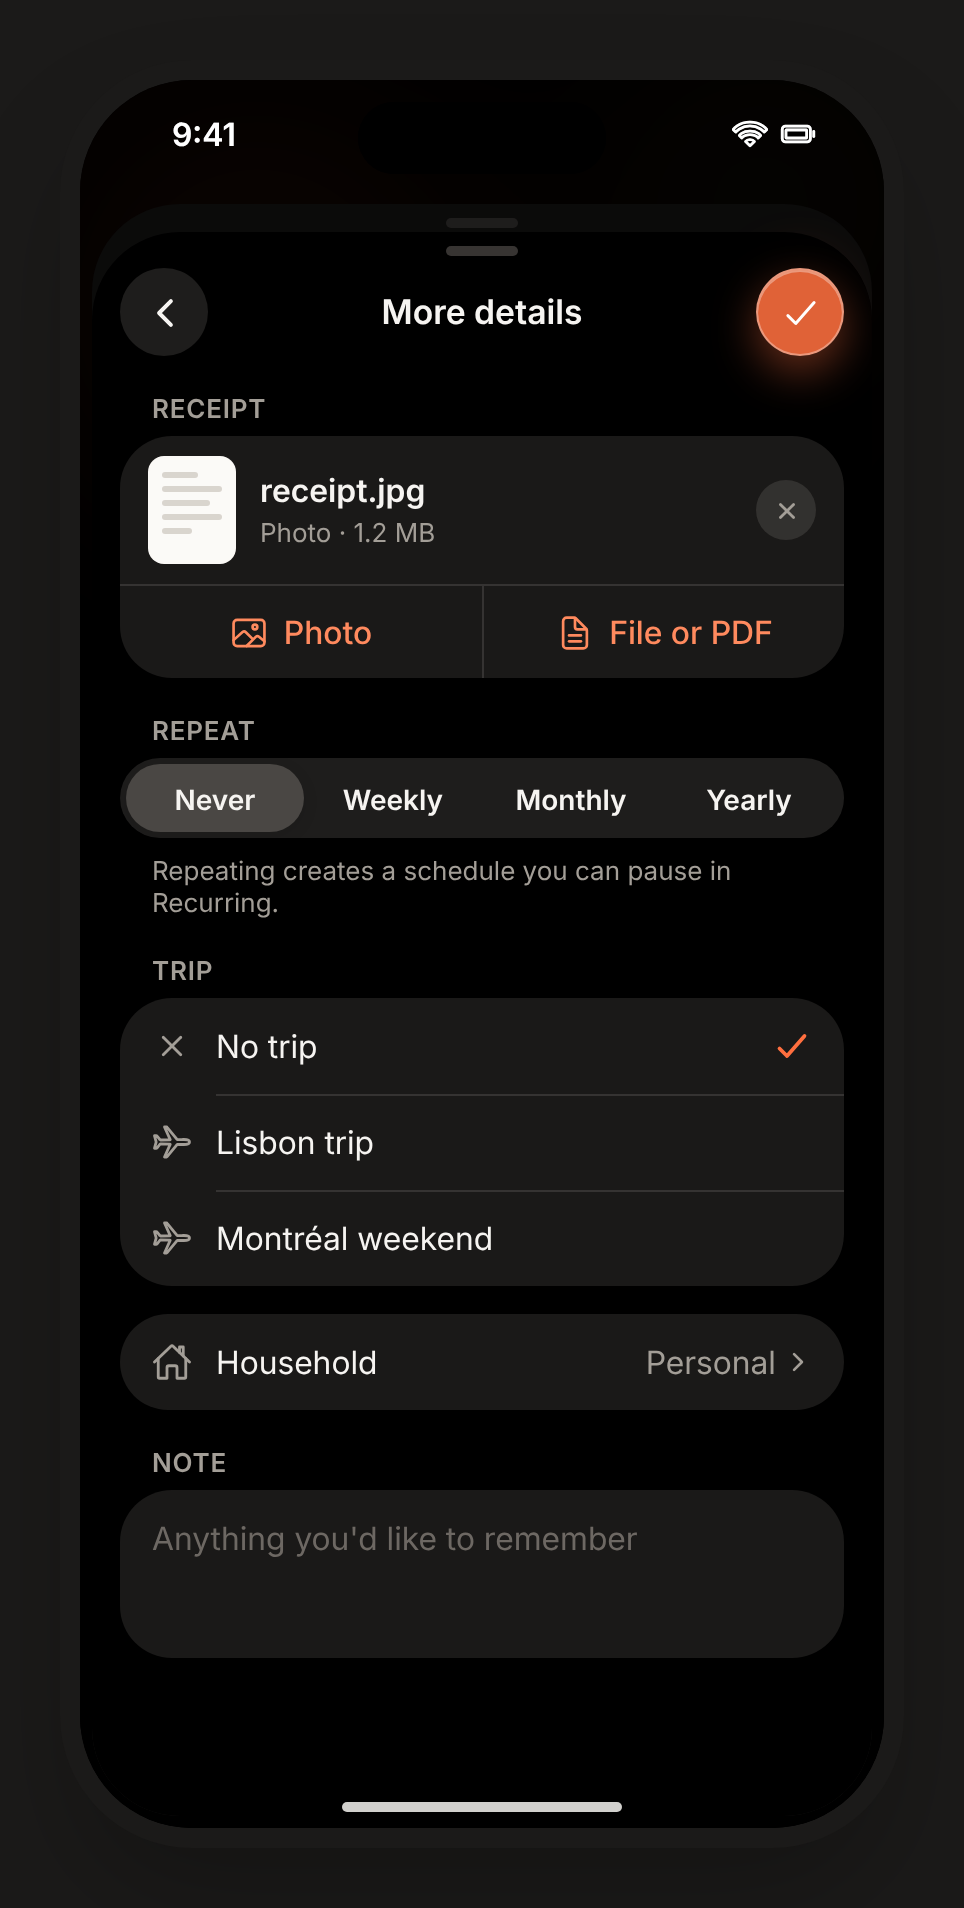
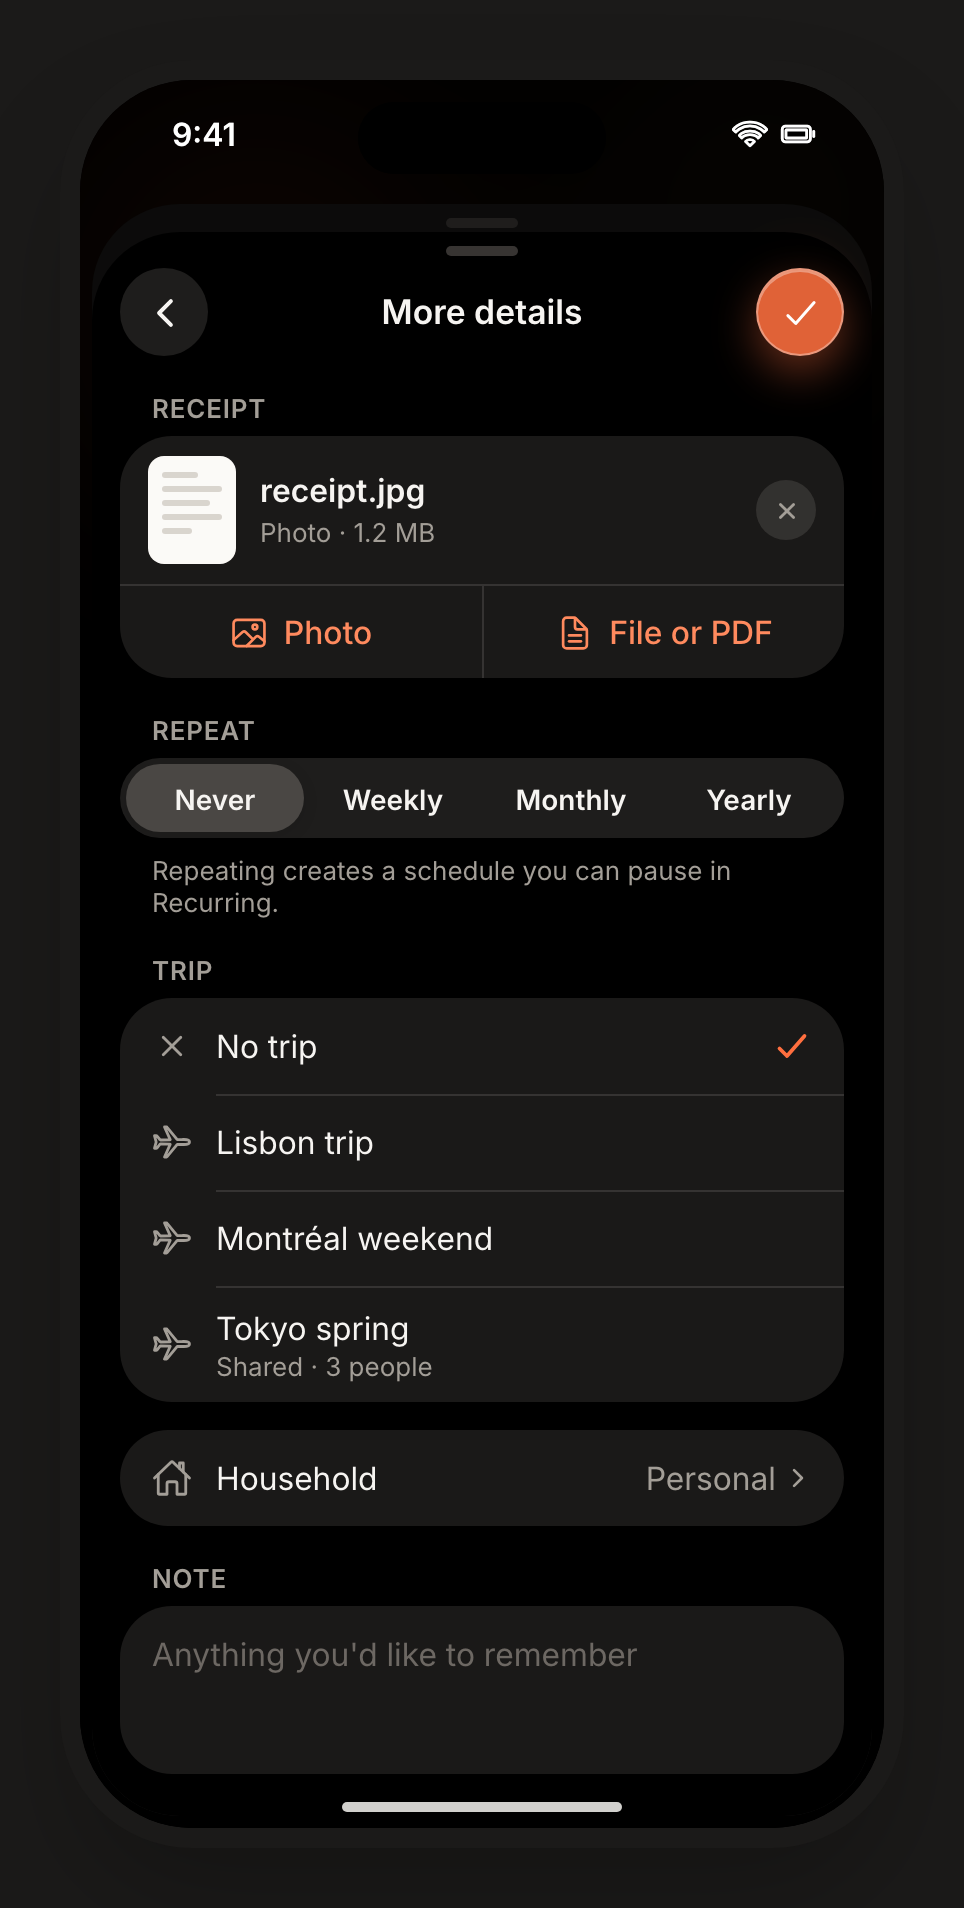
feat: add shared trips to iphone-entry-extras and close the capture gaps
The card now lists a shared trip below the personal trips with
"Shared · N people", as both apps do; the web's phone-width trip list
gains the shared trips too. On iOS the Activity list no longer leaves a
gap for its spoken-only rows, the filters and household picker sheets
are solid, the search waits for the server, the delete sheet keeps its
buttons' identifiers, and redesign.md drops the native notes these replace.

Changed region(s): [[0.1245, 0.6494, 0.9025, 0.9277]]

diff --git a/apps/web/src/features/entries/EntryForm.tsx b/apps/web/src/features/entries/EntryForm.tsx
@@ -540,6 +540,20 @@ function EntryForm({
                 {draft.tripId === trip.id ? <Icon name="checkmark" size={18} weight={48} /> : null}
               </label>
             ))}
+            {/* The shared trips a new expense can go to, below your own (`iphone-entry-extras`): picking one
+                moves what was typed to that trip's shared form, as the Household row does. */}
+            {householdProps
+              ? sharedTripsOf(householdProps.scope.households).map((trip) => (
+                  <label key={trip.id} className="entry-trip entry-trip--shared">
+                    <input type="radio" name="entry-trip" value={trip.id} checked={false} onChange={() => { householdProps.scope.onChoose({ householdId: trip.id }, householdProps.seed()); }} />
+                    <Icon name="airplane" size={18} />
+                    <span className="entry-trip__name">
+                      {trip.name}
+                      <span className="entry-trip__sub">Shared · {trip.memberCount} {trip.memberCount === 1 ? "person" : "people"}</span>
+                    </span>
+                  </label>
+                ))
+              : null}
           </div>
           {errorText("trip")}
         </fieldset>
@@ -794,6 +808,13 @@ function seededDraft(ledger: Ledger, seed: EntrySeed, kind: Kind = "expense"): E
     receipt: kind === "expense" ? seed.receipt : null,
     ...(category ? { categoryId: category.id } : {}),
   };
+}
+
+/** The shared trips among `households`, the latest start first (More details › Trip, as on iOS). */
+function sharedTripsOf<T extends { name: string; trip?: { startDate: string } | undefined }>(households: T[]): T[] {
+  return households
+    .filter((household) => household.trip)
+    .sort((a, b) => (b.trip?.startDate ?? "").localeCompare(a.trip?.startDate ?? "") || a.name.localeCompare(b.name));
 }
 
 /** What the phone's "Receipt, repeat, trip" row holds, as on iOS: "Receipt · Monthly · Lisbon trip · Note". */

diff --git a/apps/web/tests/households.test.tsx b/apps/web/tests/households.test.tsx
@@ -629,6 +629,31 @@ describe("Add entry with a household", () => {
     expect(household.compareDocumentPosition(note) & Node.DOCUMENT_POSITION_FOLLOWING).toBeTruthy();
   });
 
+  it("lists shared trips below your own trips and moves the expense to the one picked", async () => {
+    seed();
+    const created = server.handle(ALEX, "POST", "/api/households/trips", { name: "Tokyo spring", currency: "CAD", startDate: "2026-11-01", endDate: "2026-11-09" }).body as { household: { id: string } };
+    serve();
+    const user = userEvent.setup();
+    renderApp("/");
+    const form = await openAdd(user);
+    await user.type(within(form).getByLabelText("Amount (CAD)"), "30");
+    await user.type(within(form).getByLabelText("Title"), "Ramen");
+    await user.click(within(form).getByRole("button", { name: /^Receipt, repeat, trip/ }));
+    const trips = within(form).getByRole("group", { name: "Trip" });
+    const shared = await within(trips).findByRole("radio", { name: /Tokyo spring/ });
+    // As on iphone-entry-extras: after the personal trips, with "Shared · N people", never checked.
+    expect(shared.closest("label")).toHaveTextContent("Shared · 1 person");
+    expect(shared).not.toBeChecked();
+    const options = within(trips).getAllByRole("radio");
+    expect(options[options.length - 1]).toBe(shared);
+
+    await user.click(shared);
+    const sharedForm = await screen.findByRole("form", { name: "New expense" });
+    expect(within(sharedForm).getByLabelText("Household")).toHaveValue(created.household.id);
+    expect(within(sharedForm).getByLabelText("Title")).toHaveValue("Ramen");
+    expect(within(sharedForm).getByLabelText("Amount (CAD)")).toHaveValue("30");
+  });
+
   it("sends a new expense to a household from Add entry, keeping what was typed", async () => {
     const id = seed();
     const fetchMock = serve();

diff --git a/apps/ios/Packages/PennyKit/Sources/PennyUI/Activity/ActivityView.swift b/apps/ios/Packages/PennyKit/Sources/PennyUI/Activity/ActivityView.swift
@@ -170,7 +170,9 @@ private struct ActivityList: View {
         let local = cache.result(ledger, filters, today: shell.today, shared: sharedRows)
         let server = Self.showsServer(search, filters: filters) ? search.rows(in: ledger) : nil
         let report = server?.report ?? cache.report
-        let rows = server?.rows ?? local.entries
+        // While the server searches, the list waits for its answer (`activity-searching`) instead of
+        // showing this device's word matches first and replacing them.
+        let rows = Self.waitsForServer(search, filters: filters) ? [] : (server?.rows ?? local.entries)
         let shown = server == nil ? Array(rows.prefix(visibleLimit)) : rows
         let days = ActivityDay.group(shown)
         let currency = ledger.currency.rawValue
@@ -227,6 +229,8 @@ private struct ActivityList: View {
             footer(rows: rows, shown: shown, search: search, server: server != nil)
         }
         .insetGroupedList()
+        // The spoken-only rows (totals, the server results line) are one point tall, not a row's height.
+        .environment(\.defaultMinListRowHeight, 1)
         .overlay { emptyState(rows: rows, filters: filters) }
         .refreshable {
             await shell.workspace.reload()
@@ -241,6 +245,10 @@ private struct ActivityList: View {
         .task(id: filters.period) { await shell.activityShared.refresh(filters.period) }
         .deleteEntryConfirmation($deleting)
         .sharedDeleteConfirmation($deletingShared)
+    }
+
+    static func waitsForServer(_ search: ActivitySearchModel, filters: ActivityFilters) -> Bool {
+        filters.hasQuery && search.source == .server && search.status == .searching
     }
 
     static func showsServer(_ search: ActivitySearchModel, filters: ActivityFilters) -> Bool {

diff --git a/apps/ios/Packages/PennyKit/Sources/PennyDesign/Components/Feedback.swift b/apps/ios/Packages/PennyKit/Sources/PennyDesign/Components/Feedback.swift
@@ -13,13 +13,18 @@ public struct StatusBanner<Action: View>: View {
     private let tone: Tone
     private let title: String
     private let message: String?
+    /// Replaces the tone's icon (the future-date callout's clock, `add-income`).
+    private let symbol: String?
     private let action: Action
     @Environment(\.dynamicTypeSize) private var dynamicTypeSize
 
-    public init(tone: Tone, title: String, message: String? = nil, @ViewBuilder action: () -> Action) {
+    public init(
+        tone: Tone, title: String, message: String? = nil, symbol: String? = nil, @ViewBuilder action: () -> Action
+    ) {
         self.tone = tone
         self.title = title
         self.message = message
+        self.symbol = symbol
         self.action = action()
     }
 
@@ -80,6 +85,7 @@ public struct StatusBanner<Action: View>: View {
     }
 
     private var icon: String {
+        if let symbol { return symbol }
         switch tone {
         case .offline: "icloud.slash"
         case .error: "exclamationmark.circle.fill"
@@ -108,8 +114,8 @@ public struct StatusBanner<Action: View>: View {
 }
 
 extension StatusBanner where Action == EmptyView {
-    public init(tone: Tone, title: String, message: String? = nil) {
-        self.init(tone: tone, title: title, message: message) { EmptyView() }
+    public init(tone: Tone, title: String, message: String? = nil, symbol: String? = nil) {
+        self.init(tone: tone, title: title, message: message, symbol: symbol) { EmptyView() }
     }
 }
 

diff --git a/docs/design/penny-ios/iphone/entry-extras.html b/docs/design/penny-ios/iphone/entry-extras.html
@@ -29,6 +29,9 @@
   .opt + .opt::before { content: ""; position: absolute; top: 0; left: 48px; right: 0; border-top: .5px solid var(--separator); }
   .opt [data-i] { width: 20px; height: 20px; color: var(--label-2); }
   .opt .ck { margin-left: auto; color: var(--tint); --sw: 48px; }
+  .opt.two { height: 58px; }
+  .opt .tt { display: flex; flex-direction: column; gap: 1px; }
+  .opt .tt span { font-size: 13px; color: var(--label-2); }
   .opt .v { margin-left: auto; color: var(--label-2); display: flex; align-items: center; gap: 4px; }
   .note { margin: 0 14px; border-radius: var(--r-card); background: var(--surface); padding: 14px 16px; height: 84px; font-size: 16px; color: var(--label-3); }
 </style></head>
@@ -62,6 +65,7 @@
       <div class="opt"><i data-i="close"></i>No trip<i data-i="checkmark" class="ck"></i></div>
       <div class="opt"><i data-i="airplane"></i>Lisbon trip</div>
       <div class="opt"><i data-i="airplane"></i>Montréal weekend</div>
+      <div class="opt two"><i data-i="airplane"></i><div class="tt">Tokyo spring<span>Shared · 3 people</span></div></div>
     </div>
     <div class="list" style="margin-top:14px">
       <div class="opt"><i data-i="home"></i>Household<span class="v">Personal <i data-i="chevron-forward" class="chev"></i></span></div>

diff --git a/apps/ios/Packages/PennyKit/Sources/PennyAccessibility/AccessibilityID.swift b/apps/ios/Packages/PennyKit/Sources/PennyAccessibility/AccessibilityID.swift
@@ -49,6 +49,8 @@ public enum AccessibilityID {
         public static let entryExtras = "screen.entryExtras"
         /// Add entry's Household: personal, or a household to split with.
         public static let householdPicker = "screen.householdPicker"
+        /// The delete confirmation sheet (`delete-confirm` card, MAZ-255).
+        public static let deleteConfirm = "screen.deleteConfirm"
         // Accounts, categories and schedules (MAZ-74).
         public static let accountForm = "screen.accountForm"
         public static let categoryForm = "screen.categoryForm"
@@ -64,7 +66,7 @@ public enum AccessibilityID {
             home, activity, shared, household, householdExpense, trips, trip, addEntry, settings, appearance, currency,
             appLock, recurring, accounts, categories, lock,
             editEntry, entryDetail, activityFilters, categoryPicker, accountPicker, datePicker, split, entryExtras,
-            householdPicker,
+            householdPicker, deleteConfirm,
             accountForm, categoryForm, schedule, scheduleForm,
             moneyFlow, insights, calendar, categorySpending,
         ]

diff --git a/apps/ios/Packages/PennyKit/Sources/PennyUI/Activity/ActivityFiltersSheet.swift b/apps/ios/Packages/PennyKit/Sources/PennyUI/Activity/ActivityFiltersSheet.swift
@@ -99,6 +99,7 @@ struct ActivityFiltersSheet: View {
                         shell.activityFilters.clearNarrowing()
                         shell.activityFilters.period = .month(shell.month)
                     }
+                    .foregroundStyle(PennyColor.label)
                     .accessibilityIdentifier("filters.clear")
                 }
                 ToolbarItem(placement: .confirmationAction) {
@@ -111,7 +112,9 @@ struct ActivityFiltersSheet: View {
             }
             .pennySolidBars()
         }
-        .presentationDetents([.medium, .large])
+        // Full height on a solid background, as on `iphone-activity-filters`.
+        .presentationDetents([.large])
+        .presentationBackground(PennyColor.background)
         .accessibilityIdentifier("screen.activityFilters")
     }
 

diff --git a/apps/ios/Packages/PennyKit/Sources/PennyUI/Entries/EntryHousehold.swift b/apps/ios/Packages/PennyKit/Sources/PennyUI/Entries/EntryHousehold.swift
@@ -124,6 +124,7 @@ struct EntryHouseholdSheet: View {
                 }
             }
             .insetGroupedList()
+            .contentMargins(.top, 4, for: .scrollContent)
             .background(PennyColor.background)
             .navigationTitle("Household")
             .toolbarTitleDisplayModeInline()
@@ -136,6 +137,7 @@ struct EntryHouseholdSheet: View {
             .pennySolidBars()
         }
         .presentationDetents([.medium, .large])
+        .presentationBackground(PennyColor.background)
         .accessibilityIdentifier("screen.householdPicker")
     }
 

diff --git a/apps/ios/Packages/PennyKit/Sources/PennyUI/Entries/EntryFormSheet.swift b/apps/ios/Packages/PennyKit/Sources/PennyUI/Entries/EntryFormSheet.swift
@@ -274,7 +274,7 @@ private struct EntryForm: View {
     private func futureDateNote(_ draft: EntryDraft) -> some View {
         if let date = CalendarDate.ledgerDate(draft.date), date > shell.today {
             let note = EntryText.futureDate(draft.kind, date: date, today: shell.today)
-            StatusBanner(tone: .info, title: note.title, message: note.message)
+            StatusBanner(tone: .info, title: note.title, message: note.message, symbol: "clock")
                 .accessibilityIdentifier("entryForm.futureDate")
         }
     }

diff --git a/apps/ios/PennyUITests/Cards/CardCaptureTests.swift b/apps/ios/PennyUITests/Cards/CardCaptureTests.swift
@@ -214,7 +214,7 @@ final class CardCaptureTests: CardTestCase {
         try await card("iphone-edit-entry") { card in
             try card.penny.openSeptemberEntry("p-party")
             try card.penny.tap(AccessibilityID.Journeys.detailEdit)
-            try card.penny.wait(for: AccessibilityID.Screen.addEntry)
+            try card.penny.wait(for: AccessibilityID.Screen.editEntry)
         }
     }
 

diff --git a/apps/ios/Packages/PennyKit/Sources/PennyUI/Shell/Confirmations.swift b/apps/ios/Packages/PennyKit/Sources/PennyUI/Shell/Confirmations.swift
@@ -289,6 +289,8 @@ struct DeleteConfirmationSheet: View {
         .presentationDetents([.height(height)])
         .presentationDragIndicator(.hidden)
         .presentationBackground(PennyColor.surface)
+        // A container, so the screen identifier doesn't replace the buttons' own.
+        .accessibilityElement(children: .contain)
         .accessibilityIdentifier("screen.deleteConfirm")
     }
 }

diff --git a/apps/web/src/design/entry.css b/apps/web/src/design/entry.css
@@ -851,6 +851,21 @@
   cursor: inherit;
 }
 
+.entry-trip--shared {
+  height: 58px;
+}
+
+.entry-trip__name {
+  display: flex;
+  flex-direction: column;
+  gap: 1px;
+}
+
+.entry-trip__sub {
+  font-size: 13px;
+  color: var(--pk-label-2);
+}
+
 .entry-trip > .icon {
   color: var(--pk-label-2);
 }
